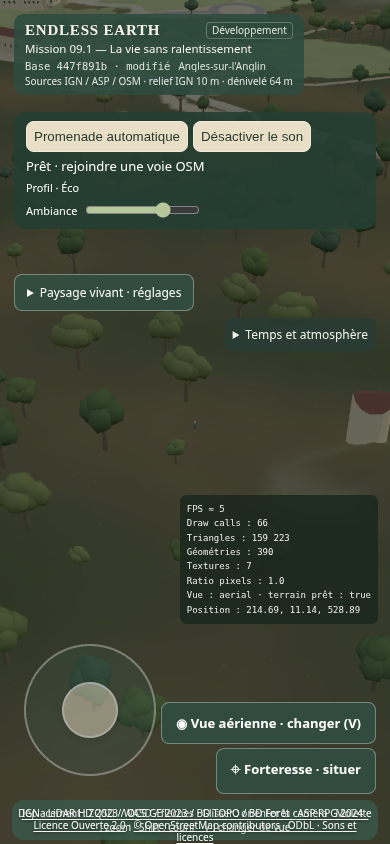
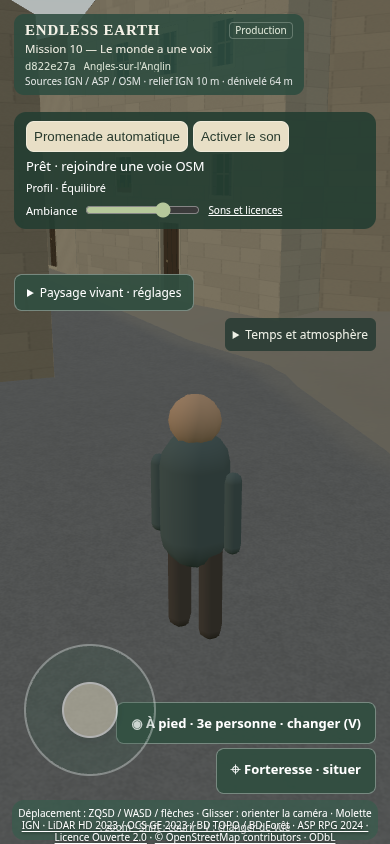
docs(audio): retain clean production checks and final listening evidence

diff --git a/docs/mission-10.md b/docs/mission-10.md
@@ -147,7 +147,7 @@ Le pic de 459,9 ms au premier passage coupé est conservé ; sa cause n’est pa
 - **Navigateur audio** : aucun contexte avant geste, activation clavier, bascules réellement concurrentes attendues jusqu’à complétion, volume, pause/reprise, profils, mouvement/rotation/perspectives, HTTP/décodage invalides, douze créations/destructions avec contextes fermés et caches/voix vidés.
 - **Non-régressions 09.1** : profils, préférences, silhouettes solo/couple/groupe, plafond terrain/bâtiments, shaders GL réels et modes eau/vent coupés, matrices LOD inchangées, trois cycles de profils sans croissance mémoire graphique, douze cycles atmosphère, 19 cas de données dégradées, caméra et cinq obstacles injectés pendant la marche. Toutes les assertions finales passent. Le test historique de sourdine attend maintenant la fin de chaque transition UI asynchrone ; l’assertion finale de suspension est conservée. Le test Mission 10 distinct vérifie aussi six bascules concurrentes. Le premier journal d’adaptation est conservé.
 
-Les preuves de ces vérifications sont dans `runtime.json`, `spatial.json`, `walk.json` et `regression/`. Les anciennes preuves ne sont pas écrasées. Le build de production et son identité sont vérifiés séparément sur quatre résolutions avant ouverture de la PR.
+Les preuves de ces vérifications sont dans `runtime.json`, `spatial.json`, `walk.json` et `regression/`. Les anciennes preuves ne sont pas écrasées. Le build de production propre `d822e27` et son identité ont été vérifiés sur 1280×800, 390×844, 320×568 et 844×390 avant ouverture de la PR ; nom/commit visibles, en-tête sans interception ni chevauchement avec les contrôles, données géographiques chargées, aucune requête de métadonnées distante. [Captures et validation](mission-10-evidence/production/validation.json). Les commits de preuves suivants ne changent pas le moteur.
 
 ## Limites et suites
 

diff --git a/docs/mission-10-evidence/README.md b/docs/mission-10-evidence/README.md
@@ -2,6 +2,7 @@
 
 Base complète 09.1 : `447f891` (arbre identique à `27dcdc3`). Aucun fichier de workflow de publication modifié. Données/artefacts des anciennes missions conservés.
 
+- `production/` : build propre `d822e27`, quatre résolutions, identité embarquée et jeu chargé ; les captures remplacent le premier aperçu de développement.
 - `runtime.json` : activation clavier, aucun contexte avant action, bascules rapides, reprise, profils, douze créations/destructions, erreurs HTTP/décodage gérées. `mobile.png` : viewport 390×844, pas Android réel.
 - `offline.json` : cinq rendus PCM de 42 s (le cinquième reproduit le quatrième), RMS/crête/différence d’échantillons, reproduction avec tolérance native. `spatial.json` : inversion de l’énergie stéréo après rotation, atténuation avec distance, obstruction fournie et saturation des budgets.
 - Quatre fichiers Ogg et `ecoute.html` : véritables extraits d’écoute à télécharger ensemble ; le lecteur est utilisable localement ou via Vite `/endless-earth/docs/mission-10-evidence/ecoute.html`. Le visualiseur GitHub n’exécute pas le HTML. PCM intermédiaires dans `work/mission-10/renders` lors de la reproduction ; Ogg encodés à partir de ces PCM, mesures prises avant compression. Audio mixé sous CC BY-SA 4.0 ; attributions dans le lecteur et `public/audio/credits.html`.
